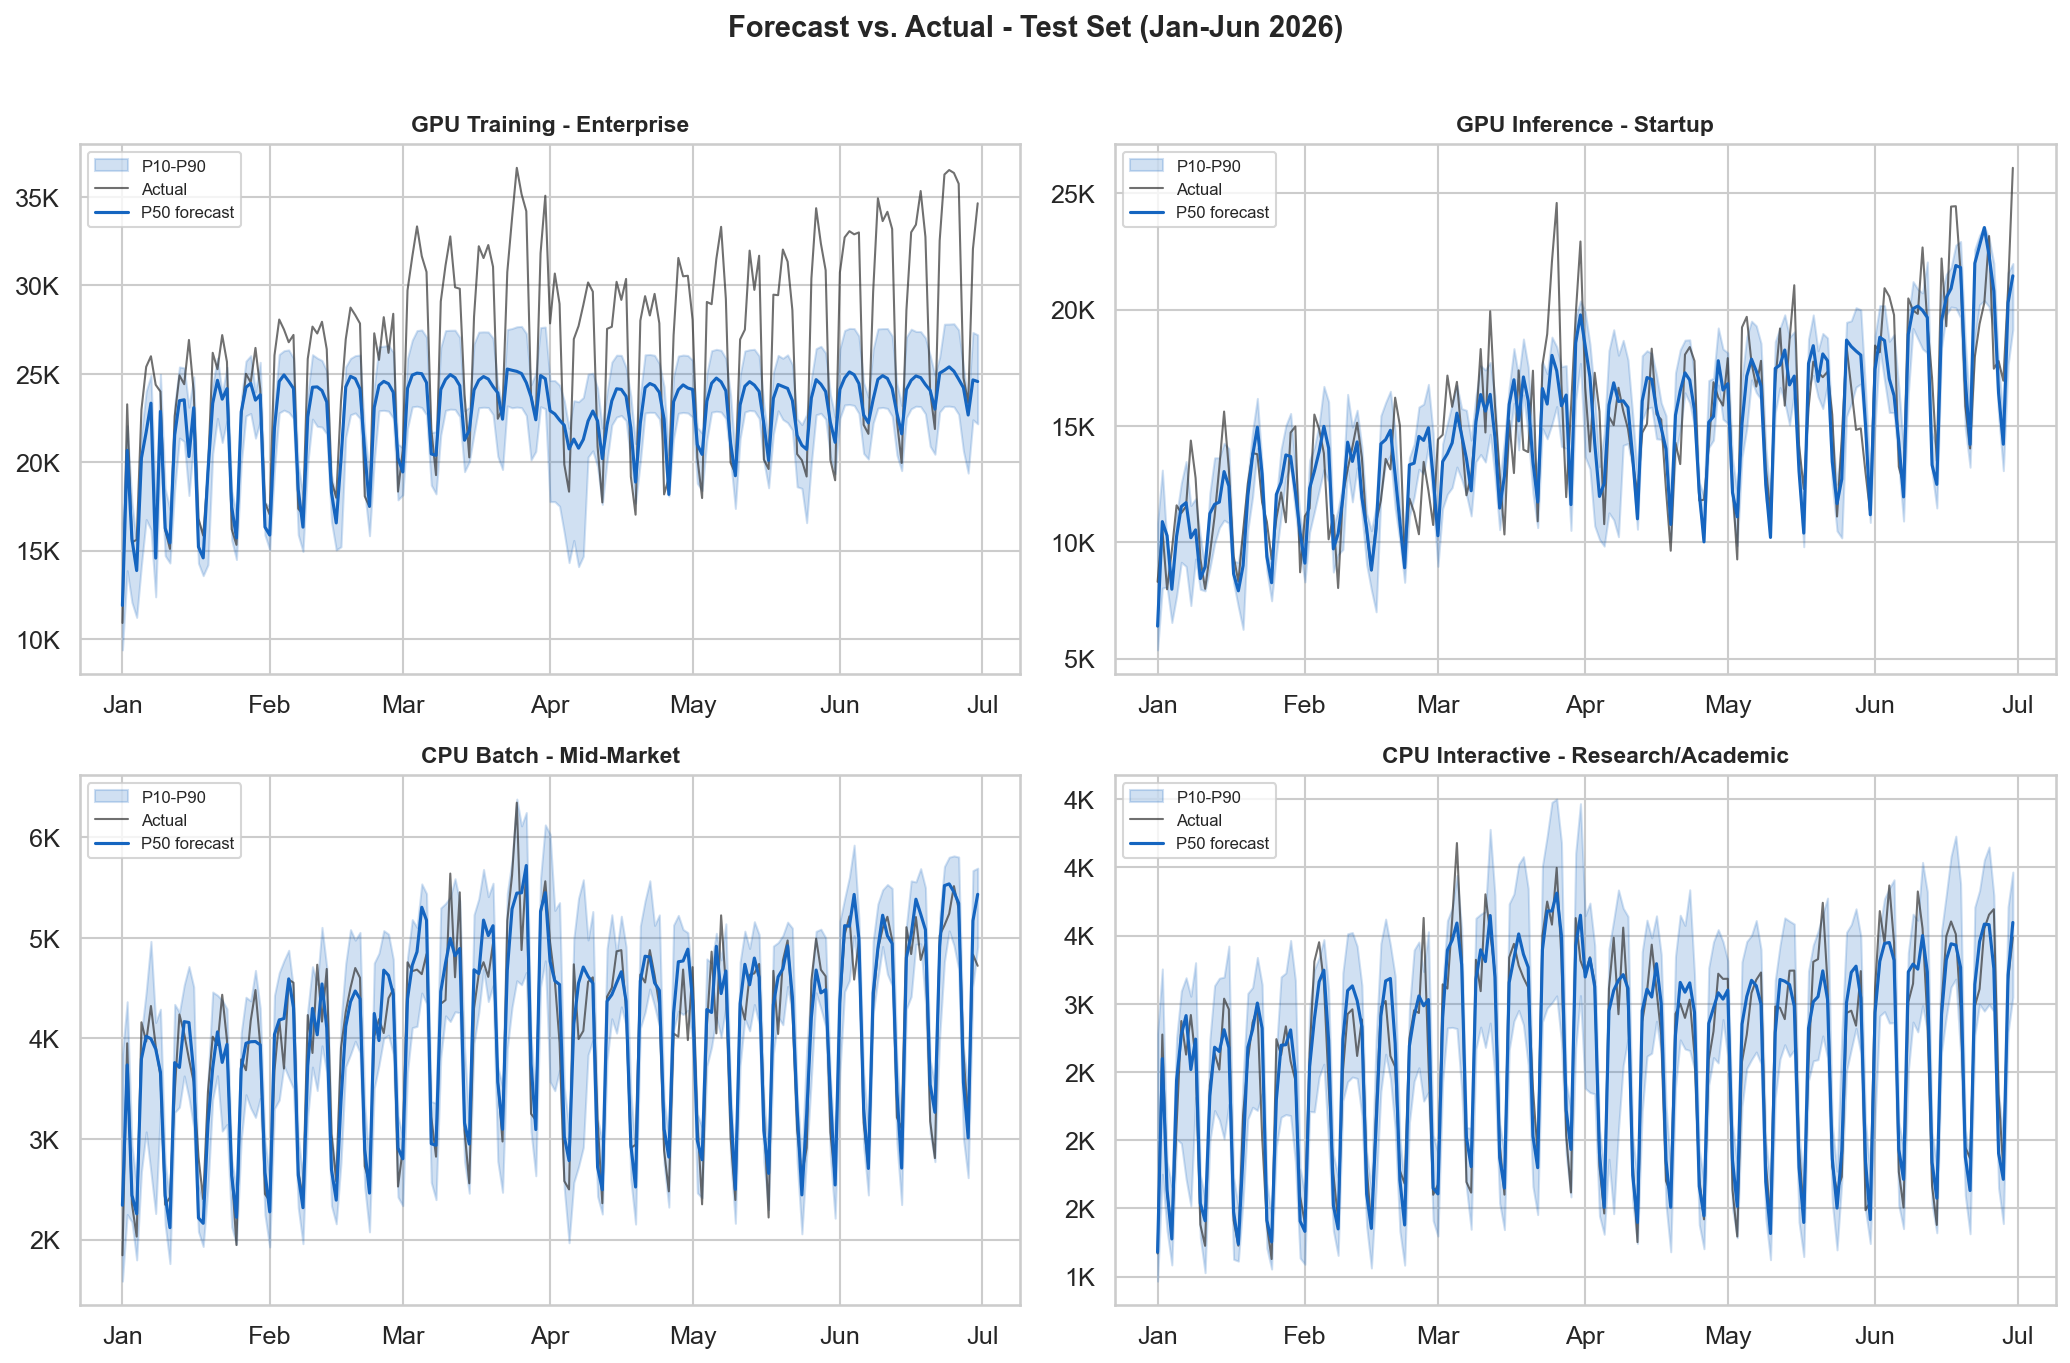
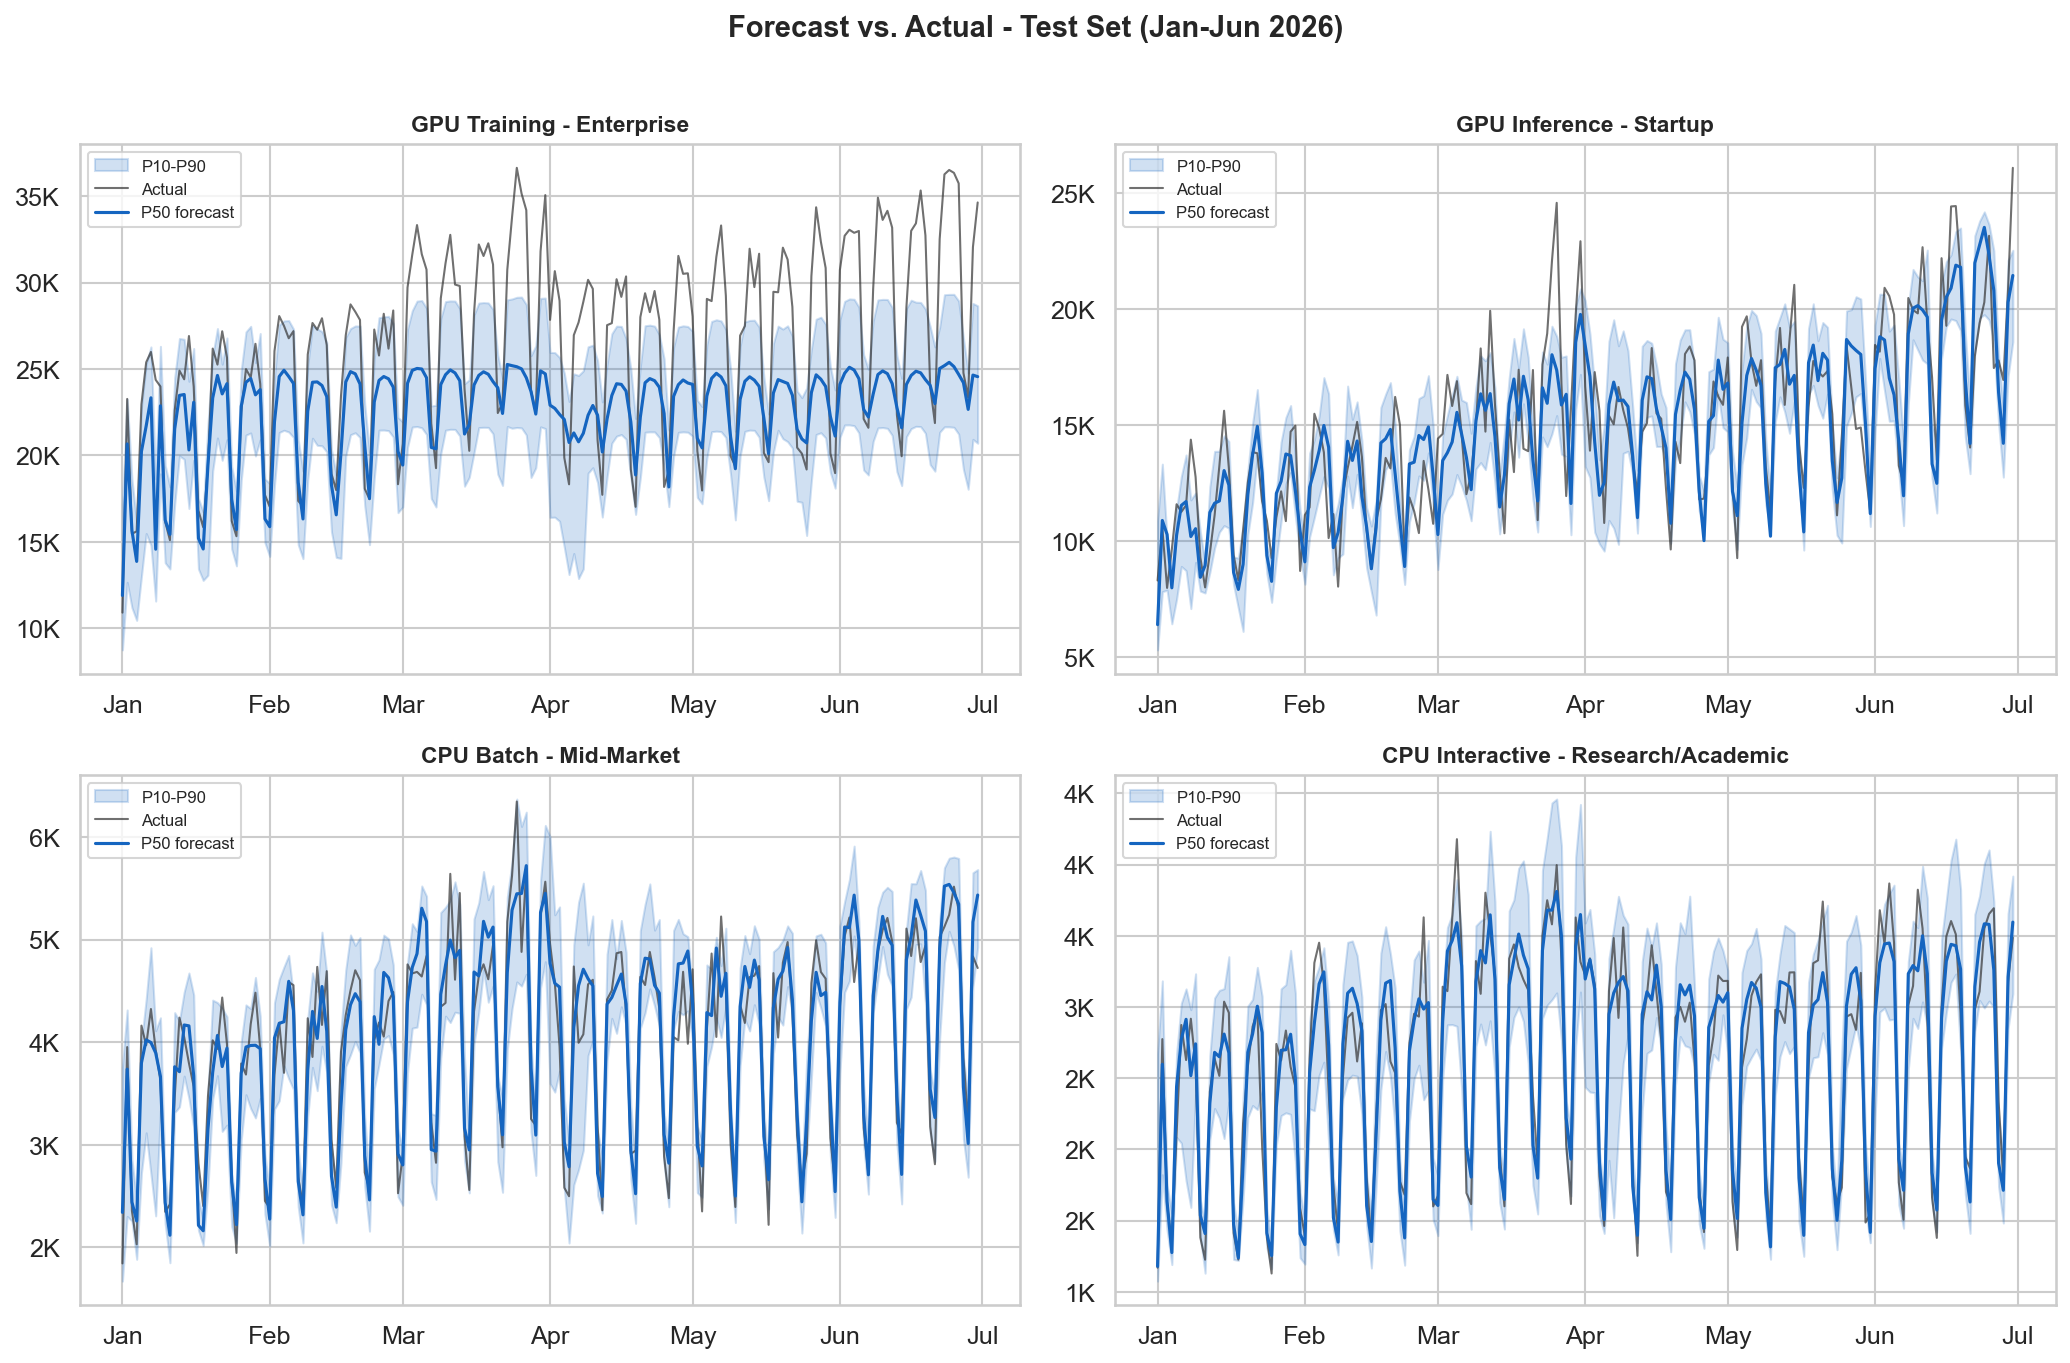
fix: update export_figures.py to use per-type proportional conformal

diff --git a/scripts/export_figures.py b/scripts/export_figures.py
@@ -110,18 +110,34 @@ for quantile, label in [(0.5, "P50"), (0.1, "P10"), (0.9, "P90")]:
           categorical_feature=CAT_FEATURES)
     models[label] = m
 
-# Conformal calibration
+# Per-type proportional conformal calibration
 val_raw_p10 = models["P10"].predict(X_val)
+val_raw_p50 = models["P50"].predict(X_val)
 val_raw_p90 = models["P90"].predict(X_val)
-conformity_scores = np.maximum(val_raw_p10 - y_val.values, y_val.values - val_raw_p90)
-n_cal = len(conformity_scores)
-q_level = min(np.ceil((n_cal + 1) * 0.80) / n_cal, 1.0)
-conformal_adj = np.quantile(conformity_scores, q_level)
+
+type_pct_adj = {}
+for ctype in ["GPU Training", "GPU Inference", "CPU Batch", "CPU Interactive"]:
+    mask = (val["compute_type"] == ctype).values
+    raw_scores = np.maximum(val_raw_p10[mask] - y_val.values[mask], y_val.values[mask] - val_raw_p90[mask])
+    pct_scores = raw_scores / np.maximum(val_raw_p50[mask], 1)
+    n_t = len(pct_scores)
+    q_t = min(np.ceil((n_t + 1) * 0.80) / n_t, 1.0)
+    type_pct_adj[ctype] = np.quantile(pct_scores, q_t)
+
+raw_test_p10 = models["P10"].predict(X_test)
+raw_test_p50 = models["P50"].predict(X_test)
+raw_test_p90 = models["P90"].predict(X_test)
+test_cal_p10 = np.zeros(len(test))
+test_cal_p90 = np.zeros(len(test))
+for ctype, pct_adj in type_pct_adj.items():
+    mask = (test["compute_type"] == ctype).values
+    test_cal_p10[mask] = raw_test_p10[mask] - pct_adj * raw_test_p50[mask]
+    test_cal_p90[mask] = raw_test_p90[mask] + pct_adj * raw_test_p50[mask]
 
 test_preds = {
-    "P50": models["P50"].predict(X_test),
-    "P10": models["P10"].predict(X_test) - conformal_adj,
-    "P90": models["P90"].predict(X_test) + conformal_adj,
+    "P50": raw_test_p50,
+    "P10": test_cal_p10,
+    "P90": test_cal_p90,
 }
 
 fig, axes = plt.subplots(2, 2, figsize=(14, 9))
